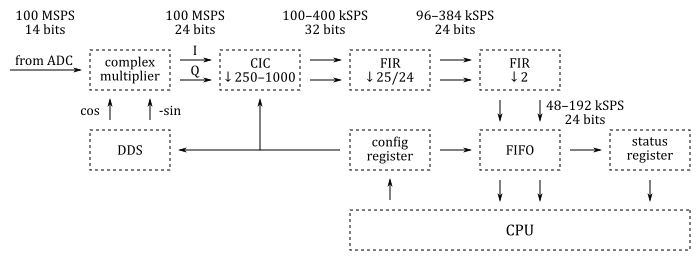
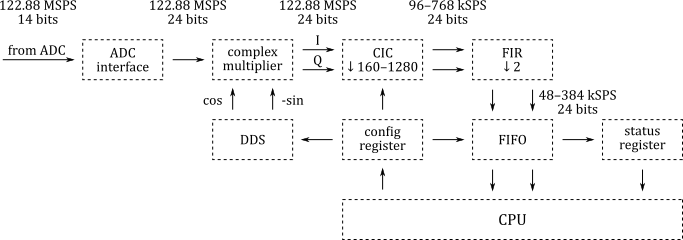
update sdr-receiver-hpsdr

diff --git a/sdr-receiver-hpsdr.md b/sdr-receiver-hpsdr.md
@@ -15,7 +15,7 @@ The HPSDR/Metis communication protocol is described in the following documents:
 
  - [HPSDR - USB Data Protocol](https://github.com/TAPR/OpenHPSDR-SVN/raw/master/Documentation/USB_protocol_V1.58.doc)
 
-This application requires that the Zmod ADC is connected to the ZMOD A connector of the Eclypse Z7 board.
+This application requires that the Zmod Digitizer is connected to the ZMOD A connector of the Eclypse Z7 board.
 
 Hardware
 -----
@@ -24,17 +24,13 @@ The FPGA configuration consists of eight identical digital down-converters (DDC)
 
 ![HPSDR receiver]({{ "/img/sdr-receiver-hpsdr.png" | prepend: site.baseurl }})
 
-The main problem in emulating the HPSDR hardware with Eclypse Z7 is that the Zmod ADC sample rate is 100 MSPS and the HPSDR ADC sample rate is 122.88 MSPS.
+The I/Q data rate is configurable and four settings are available: 48, 96, 192, 384 kSPS.
 
-To address this problem, this version contains a FIR filter for fractional sample rate conversion.
-
-The resulting I/Q data rate is configurable and three settings are available: 48, 96, 192 kSPS.
-
-The tunable frequency range covers from 0 Hz to 50 MHz.
+The tunable frequency range covers from 0 Hz to 61.44 MHz.
 
 The [projects/sdr_receiver_hpsdr](https://github.com/pavel-demin/eclypse-z7-notes/tree/master/projects/sdr_receiver_hpsdr) directory contains two Tcl files: [block_design.tcl](https://github.com/pavel-demin/eclypse-z7-notes/blob/master/projects/sdr_receiver_hpsdr/block_design.tcl), [rx.tcl](https://github.com/pavel-demin/eclypse-z7-notes/blob/master/projects/sdr_receiver_hpsdr/rx.tcl). The code in these files instantiates, configures and interconnects all the needed IP cores.
 
-The [projects/sdr_receiver_hpsdr/filters](https://github.com/pavel-demin/eclypse-z7-notes/tree/master/projects/sdr_receiver_hpsdr/filters) directory contains the source code of the [R](https://www.r-project.org) scripts used to calculate the coefficients of the FIR filters.
+The [projects/sdr_receiver_hpsdr/filters](https://github.com/pavel-demin/eclypse-z7-notes/tree/master/projects/sdr_receiver_hpsdr/filters) directory contains the source code of the [R](https://www.r-project.org) script used to calculate the coefficients of the FIR filters.
 
 The [projects/sdr_receiver_hpsdr/server](https://github.com/pavel-demin/eclypse-z7-notes/tree/master/projects/sdr_receiver_hpsdr/server) directory contains the source code of the UDP server ([sdr-receiver-hpsdr.c](https://github.com/pavel-demin/eclypse-z7-notes/blob/master/projects/sdr_receiver_hpsdr/server/sdr-receiver-hpsdr.c)) that receives control commands and transmits the I/Q data streams to the SDR programs.
 
